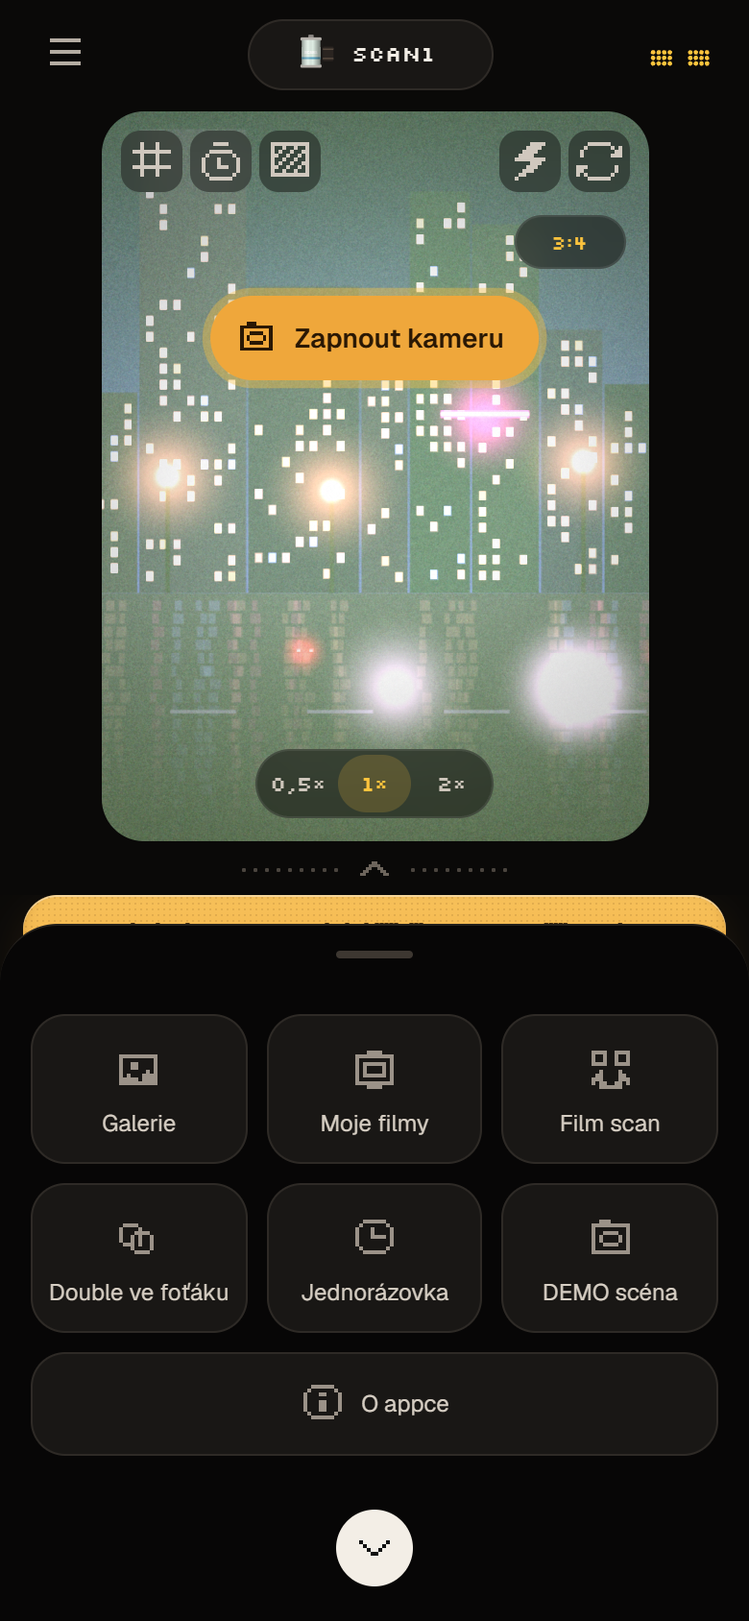
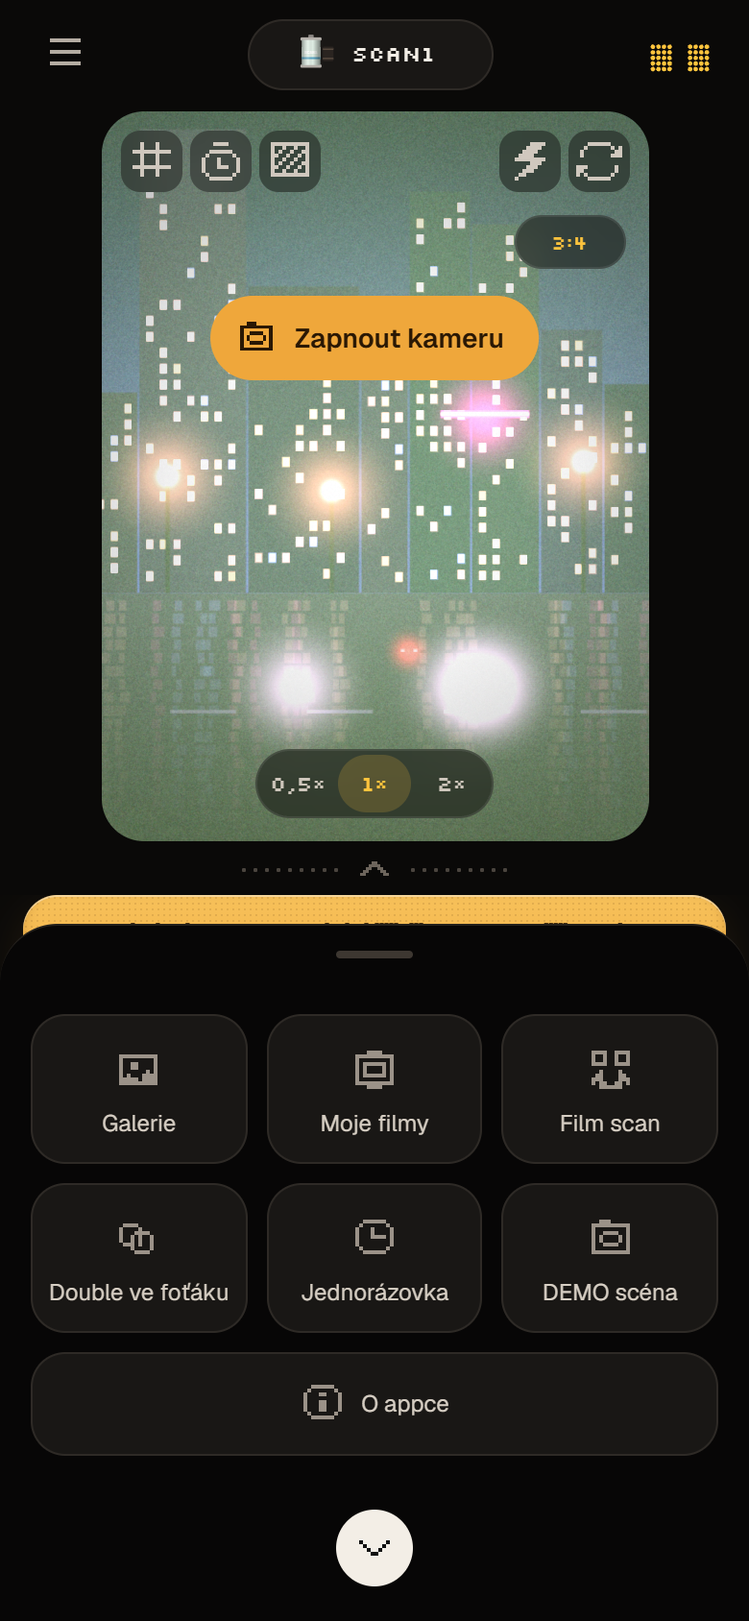
Náhled 0.11: nové infra filmy, tvar blobu z fotky, víc barev, tvary V3, průhledný export karty
- IR: barevné infra (růžovobílá zeleň, tyrkysové nebe), IR400: ČB infra ve stylu Rollei Infrared 400
- blob: tvar z fotky přes masku, vlastní tvary se pamatují, MIX barev z palety, 10 tvarů podle V3
- export blob karty jako PNG s průhledným pozadím
- mřížka efektů vycentrovaná

diff --git a/docs/preview/index.html b/docs/preview/index.html
@@ -434,7 +434,7 @@ a{color:var(--amber)}
 .cropbox::before,.cropbox::after{content:"";position:absolute;width:18px;height:18px;border:3px solid #fff}
 .cropbox::before{top:-3px;left:-3px;border-right:0;border-bottom:0}
 .cropbox::after{bottom:-3px;right:-3px;border-left:0;border-top:0}
-.fx{display:grid;grid-auto-flow:column;grid-template-rows:repeat(2,76px);grid-auto-columns:80px;gap:8px;padding:8px 14px;overflow-x:auto}
+.fx{display:grid;grid-template-columns:repeat(4,minmax(0,1fr));grid-auto-rows:76px;gap:8px;padding:8px 14px;overflow:visible}
 .fx button{display:flex;flex-direction:column;align-items:center;gap:6px;padding:12px 2px 10px;border-radius:16px;background:var(--panel);font-size:10.5px;color:#cbc3b8;border:1px solid var(--line);height:76px}
 .fx button .px{color:#8d847a}
 .fx button.on{border-color:rgba(255,196,61,.4)}
@@ -547,6 +547,14 @@ input[type=range]:hover::-webkit-slider-thumb{background:#fff}
 .palette button{width:38px;height:38px;border-radius:12px;box-shadow:inset 0 0 0 1px rgba(255,255,255,.1);transition:transform .3s cubic-bezier(.3,1.6,.5,1)}
 .palette button.on{transform:translateY(-4px);box-shadow:0 0 0 2px #0B0C0E,0 0 0 4px var(--fg)}
 .palette .add{width:38px;height:38px;border-radius:12px;cursor:pointer;background:transparent;box-shadow:inset 0 0 0 1.5px #3d3731;color:var(--fg);font-size:20px;display:grid;place-items:center;position:relative;overflow:hidden}
+.actlbl{display:flex;align-items:center;gap:12px;height:50px;padding:0 14px;border-radius:14px;background:var(--panel);border:1px solid var(--line);font-size:14px;cursor:pointer}
+.actlbl .px{width:20px;height:20px;color:#9b9288}
+.mkmod canvas{width:100%;aspect-ratio:4/5;border-radius:12px;display:block;background:#fff}
+.mkmod .srow{padding:0}
+#mkInv.on{color:var(--amber);border-color:rgba(255,196,61,.5)}
+.palette .mixb{width:38px;height:38px;border-radius:12px;box-shadow:inset 0 0 0 1.5px #3d3731;font:600 9.5px var(--f-mono);letter-spacing:.06em;color:#cfc7bc}
+.palette .mixb.on{box-shadow:inset 0 0 0 1.5px var(--amber);color:var(--amber)}
+.palette button.mx{transform:translateY(-4px);box-shadow:0 0 0 2px #0B0C0E,0 0 0 4px var(--amber)}
 .palette .add input{position:absolute;inset:0;opacity:0;cursor:pointer;width:100%;height:100%}
 .shapes{display:flex;gap:6px;overflow-x:auto;padding:0 16px}
 .shapes button{flex:none;width:52px;height:52px;border-radius:14px;display:grid;place-items:center}
@@ -727,7 +735,7 @@ body.pcapp .pcwrap{position:fixed;inset:0;width:auto;height:auto;transform:none!
 <body>
 <div class="shell" id="shell">
   <aside class="nav">
-    <div class="brand">QAMERA<small>Náhled 0.10</small></div>
+    <div class="brand">QAMERA<small>Náhled 0.11</small></div>
     <div>
       <div class="navlabel">Zobrazení</div>
       <div class="seg" id="viewSeg"><button class="on" data-v="m">MOBIL 390×844</button><button data-v="pc">PC 1440×900</button></div>
@@ -926,7 +934,7 @@ body.pcapp .pcwrap{position:fixed;inset:0;width:auto;height:auto;transform:none!
         <section class="scr pt" id="s-about" hidden>
           <div class="top"><button class="ib" data-back aria-label="Zpět" data-ic="back"></button><span class="title">O appce</span><span style="width:40px"></span></div>
           <div class="about">
-            <div class="hero"><div class="lens"><svg class="eyes" id="aboutEyes" viewBox="14 24 92 72"></svg></div><h2>QAMERA</h2><div class="ver">NÁHLED 0.10</div></div>
+            <div class="hero"><div class="lens"><svg class="eyes" id="aboutEyes" viewBox="14 24 92 72"></svg></div><h2>QAMERA</h2><div class="ver">NÁHLED 0.11</div></div>
             <div class="card"><h3>Poděkování</h3>
               <p><a href="https://github.com/thetechgeekko/Spektrafilm-android" target="_blank" rel="noopener">Spektrafilm for Android</a> by <b>Akshay Sharma</b></p>
               <p>Film modeling powered by <a href="https://github.com/andreavolpato/spektrafilm" target="_blank" rel="noopener">spektrafilm</a> (Andrea Volpato)</p>
@@ -1127,7 +1135,8 @@ const FILMS = [
   { code: 'PV100', sub: 'provia 100F', chem: 'E-6 · ISO 100', desc: 'Neutrální diapozitiv ve stylu Provia 100F. Přesné barvy, jemný grain.', iso: 100, g: 'fine', sh: [0, 0, .015], hi: [1.0, 1.0, 1.0], con: 1.16, sat: 1.14, fade: .0, hal: .15, c: ['#2a5fc4', '#f4f4f4', '#1c1c1c'] },
   { code: 'VEL', sub: 'velvia 100', chem: 'E-6 · ISO 100', desc: 'Extrémně sytý diapozitiv ve stylu Velvia. Krajiny, západy, purpurové stíny.', iso: 100, g: 'fine', sh: [.02, -.01, .03], hi: [1.04, .98, .96], con: 1.28, sat: 1.5, fade: .0, hal: .2, c: ['#7d2a8f', '#f4f4f4', '#2bb04a'] },
 ];
-FILMS.push({ code: 'IR', sub: 'aerochrome', chem: 'infračervený', desc: 'Falešný infračervený film ve stylu Aerochrome. Zeleň zčervená až do růžova, nebe ztmavne.', iso: 400, g: 'classic', sh: [0, .0, .02], hi: [1.02, 1, .98], con: 1.08, sat: 1.12, fade: .02, hal: .3, ir: 1, c: ['#1a1a1a', '#d62f5c', '#f2c230'] });
+FILMS.push({ code: 'IR', sub: 'infrared color', chem: 'barevný infračervený', desc: 'Infračervený vzhled jako z přestavěného foťáku: zeleň a tráva do růžovobílé, nebe tyrkysové, beton do pudrové.', iso: 400, g: 'classic', sh: [0, 0, 0], hi: [1, 1, 1], con: 1.02, sat: 1, fade: .02, hal: .3, gl: .28, ir: 1, c: ['#5fb7b4', '#f2a7bc', '#fbe9ee'] });
+FILMS.push({ code: 'IR400', sub: 'infrared 400', chem: 'ČB infračervený', desc: 'Černobílý infračervený film ve stylu Rollei Infrared 400 s červeným filtrem: zeleň září bíle (Woodův efekt), nebe a voda ztmavnou skoro do černa, ostrý kontrast.', iso: 400, g: 'mono', sh: [0, 0, 0], hi: [1, 1, 1], con: 1.1, sat: 0, fade: .0, hal: .12, gl: .2, ir: 2, c: ['#1a1a1a', '#e8e8e8', '#b3122e'] });
 /* soft glow (difúze, „Pro-Mist“) podle filmu */
 const GLOW = { P160: .2, P400: .18, P800: .22, E100: .08, G200: .18, UM400: .12, KC64: .05, EC100: .06, 'V3-50D': .15, 'V3-250D': .2, 'V3-500T': .3, C200: .12, '400H': .28, SX400: .1, PV100: .05, VEL: .05, IR: .25 };
 FILMS.forEach(f => f.gl = GLOW[f.code] ?? .12);
@@ -1373,7 +1382,18 @@ void main(){
   c = (c-.5)*(1.+uCon*.55)+.5;
   float l = luma(c); c = mix(vec3(l), c, 1.+uSat);
   vec3 f = c; float fl = clamp(luma(f),0.,1.);
-  if (uIR > .5) { vec3 x = f; float veg = clamp((x.g - max(x.r, x.b))*4., 0., 1.); float ir = clamp(luma(x)*.72 + veg*.95, 0., 1.); f = vec3(ir, x.r*.95, x.g*.88); fl = clamp(luma(f),0.,1.); }
+  if (uIR > .5) { vec3 x = clamp(f,0.,1.); float lx = luma(x), sat0 = max(x.r, max(x.g, x.b)) - min(x.r, min(x.g, x.b));
+    float veg = smoothstep(0., .12, x.g - max(x.r, x.b) * .92) * smoothstep(.03, .14, sat0); // zeleň (v IR silně odráží)
+    float sky = smoothstep(.02, .16, x.b - max(x.r, x.g) * .95) * smoothstep(.2, .55, lx);  // modré nebe (v IR tmavé)
+    float irl = clamp(lx * .8 + veg * (.55 + lx * .5), 0., 1.);
+    if (uIR < 1.5) { // barevná IR (filtr 590–720 nm + prohození kanálů): zeleň do růžovobílé, nebe do tyrkysu, zbytek pudrově růžový
+      vec3 base = mix(vec3(irl), irl * vec3(1.1, .84, .89), .8);
+      vec3 fol = mix(vec3(.93, .48, .6), vec3(1., .82, .87), smoothstep(.35, .95, irl));
+      vec3 sk = mix(vec3(.08, .45, .47), vec3(.35, .72, .72), lx);
+      f = mix(base, fol, veg); f = mix(f, sk, sky);
+    } else { // ČB IR (Rollei Infrared 400 + R72): Woodův efekt, černé nebe, tvrdý kontrast
+      float g = clamp(lx * .55 + veg * .85 + lx * veg * .3 - sky * .55 - smoothstep(.02, .2, x.b - x.r) * (1. - sky) * .12, 0., 1.); f = vec3(smoothstep(.04, .96, g)); }
+    fl = clamp(luma(f),0.,1.); }
   if (uLut > .5) f = texture(uLut3, clamp(f,0.,1.)*(32./33.) + .5/33.).rgb; // film ze spektrafilmu (3D LUT 33³)
   else {
   f = mix(vec3(fl), f, uFSat);
@@ -1493,7 +1513,7 @@ class Engine {
     const g = P.grade; gl.uniform3fv(u.uGSh, hue2rgb(g.sh[0], g.sh[1])); gl.uniform3fv(u.uGMid, hue2rgb(g.mid[0], g.mid[1])); gl.uniform3fv(u.uGHi, hue2rgb(g.hi[0], g.hi[1]));
     let T = o.transfer;
     if (!T && f.scan && this.srcEl) { if (!this.st) this.st = stats(this.srcEl); T = { k: Math.min(1, P.str) * (f.scan.k ?? 1), ms: this.st.m, ss: this.st.s, mr: f.scan.m, sr: f.scan.s }; }
-    gl.uniform1f(u.uGlow, P.glow ?? f.gl ?? .12); gl.uniform1f(u.uIR, f.ir ? 1 : 0);
+    gl.uniform1f(u.uGlow, P.glow ?? f.gl ?? .12); gl.uniform1f(u.uIR, f.ir || 0);
     const st = (!o.bypass && P.style) || {}, sty = st.type === 'dither' ? 1 : st.type === 'pixel' ? 2 : 0, pal = (st.pal || []).slice(0, 6), pf = new Float32Array(18);
     pal.forEach((c, i) => { const v = rgbOf(c); pf.set([v[0] / 255, v[1] / 255, v[2] / 255], i * 3); });
     gl.uniform1f(u.uStyle, sty); gl.uniform1f(u.uCells, st.cells || 200); gl.uniform1f(u.uLevels, st.levels || 2); gl.uniform3fv(u.uPal, pf); gl.uniform1f(u.uPalN, pal.length || 2); gl.uniform1f(u.uZebra, o.zebra ? 1 : 0);
@@ -2473,8 +2493,8 @@ function dateOverlay() { const cv = $('#eDate'); if (!cv || !S.cur) return; cons
   Object.assign(cv.style, { left: r.x + 'px', top: r.y + 'px', width: r.w + 'px', height: r.h + 'px' }); if (cv.width !== W || cv.height !== H) { cv.width = W; cv.height = H; }
   const g = cv.getContext('2d'); g.clearRect(0, 0, W, H); if (S.P.date && !before && W) drawDate(g, W, H, S.cur.date, S.P.date); }
 /* export v plném rozlišení: render celé fotky přes stejný shader, glow rám, pak sdílení (iPhone: Uložit obrázek) nebo stažení */
-async function exportCanvas(c, name) {
-  const blob = await new Promise(r => c.toBlob(r, 'image/jpeg', .95)), file = new File([blob], name, { type: 'image/jpeg' });
+async function exportCanvas(c, name, type = 'image/jpeg') {
+  const blob = await new Promise(r => c.toBlob(r, type, .95)), file = new File([blob], name, { type });
   try { if (isMobile() && navigator.canShare && navigator.canShare({ files: [file] })) { await navigator.share({ files: [file], title: 'Qamera' }); return toast('Hotovo'); } } catch (e) { if (e && e.name === 'AbortError') return; }
   const a = document.createElement('a'); a.href = URL.createObjectURL(blob); a.download = name; document.body.appendChild(a); a.click(); setTimeout(() => { URL.revokeObjectURL(a.href); a.remove(); }, 1500); toast('Fotka stažená');
 }
@@ -3088,6 +3108,7 @@ async function shareRecipe(r) {
 const SHAPES = [{ k: 'splat', s: 3 }, { k: 'blob', n: 5, a: .2, s: 9 }, { k: 'star', s: 2 }, { k: 'sparkle', s: 4 }, { k: 'flower', s: 5 }, { k: 'stamp' }, { k: 'soft' },
   { k: 'stars', s: 11 }, { k: 'dots', s: 12 }, { k: 'flowers', s: 13 }, { k: 'sparkles', s: 14 }, { k: 'waves', s: 15 },
   { k: 'shoot', s: 21 }, { k: 'chain', s: 22 }, { k: 'beacons', s: 23 }, { k: 'stars3', s: 24 }, { k: 'snake', s: 25 }, { k: 'daisygrid', s: 26 }, { k: 'halfdaisy', s: 27 }, { k: 'outlineflowers', s: 28 }, { k: 'daisyfield', s: 29 }, { k: 'loops', s: 30 },
+  { k: 'bigstars', s: 31 }, { k: 'lattice', s: 32 }, { k: 'clouds', s: 33 }, { k: 'leaf', s: 34 }, { k: 'rays', s: 35 }, { k: 'blossoms', s: 36 }, { k: 'spiral', s: 37 }, { k: 'coral', s: 38 }, { k: 'hearts', s: 39 }, { k: 'blobstars', s: 40 },
   { k: 'blob', n: 7, a: .28, s: 1 }, { k: 'blob', n: 3, a: .3, s: 12 }];
 const f2 = v => v.toFixed(2);
 function smoothClosed(pts, t = .18) { const N = pts.length; let d = `M${f2(pts[0][0])} ${f2(pts[0][1])}`;
@@ -3119,6 +3140,12 @@ const sparkle4 = (cx, cy, L, rot, fat = .13) => { let d = ''; for (let i = 0; i 
 /* nepravidelná hvězda s kulatými cípy (padající hvězda) */
 const curvyStar = (cx, cy, tips, valley, sc = 1, rot = 0) => { const pts = []; tips.forEach(([deg, L], i) => { const nd = tips[(i + 1) % tips.length][0] + (i === tips.length - 1 ? 360 : 0), a = deg * Math.PI / 180 + rot, am = (deg + nd) / 2 * Math.PI / 180 + rot;
   pts.push([cx + Math.cos(a) * L * sc, cy + Math.sin(a) * L * sc]); pts.push([cx + Math.cos(am) * valley * sc, cy + Math.sin(am) * valley * sc]); }); return smoothClosed(pts, .1); };
+const cloudPath = (cx, cy, w) => smoothClosed([[-.46, .12], [0, .15], [.46, .12], [.5, -.02], [.4, -.16], [.24, -.2], [.12, -.36], [-.06, -.4], [-.2, -.3], [-.32, -.22], [-.46, -.12]].map(([x, y]) => [cx + x * w, cy + y * w]), .2);
+const heartPath = (cx, cy, R, rot) => { const pts = []; for (let i = 0; i < 40; i++) { const t = i / 40 * Math.PI * 2, x = 16 * Math.pow(Math.sin(t), 3), y = -(13 * Math.cos(t) - 5 * Math.cos(2 * t) - 2 * Math.cos(3 * t) - Math.cos(4 * t)), cs = Math.cos(rot), sn = Math.sin(rot);
+  pts.push([cx + (x * cs - y * sn) * R / 17, cy + (x * sn + y * cs) * R / 17]); } return smoothClosed(pts, .16); };
+const leafPath = (x, y, ang, L, W, ph) => { const ux = Math.cos(ang), uy = Math.sin(ang), px = -uy, py = ux, side = [], back = [];
+  for (let i = 0; i <= 8; i++) { const t = i / 8, w = W * Math.sin(Math.PI * Math.pow(t, .8)) * (.55 + .45 * t), wv = Math.sin(t * 7 + ph) * W * .35, cx = x + ux * L * t + px * wv, cy = y + uy * L * t + py * wv;
+    side.push([cx + px * w, cy + py * w]); back.unshift([cx - px * w, cy - py * w]); } return smoothClosed([...side, ...back.slice(1, -1)], .18); };
 function scatter(r, n, gap, rMin, rMax) { const out = []; let t = 0;
   while (out.length < n && t++ < n * 80) { const R = rMin + r() * (rMax - rMin), x = 4 + r() * 92, y = 4 + r() * 117; if (out.every(o => Math.hypot(o[0] - x, o[1] - y) > (o[2] + R) * gap)) out.push([x, y, R]); }
   return out; }
@@ -3151,6 +3178,25 @@ function shapeSvg(sh, fg, bg, fid = 'bsoft') {
     case 'outlineflowers': return [[40, 44, 17, .2], [72, 68, 12, .9], [46, 92, 18, -.3]].map(([x, y, R, rt]) => `<path d="${petalPath(x, y, R, 5, rt, 1.3, .45)}" fill="none" stroke="${fg}" stroke-width="2.4"/><path d="${circ(x, y, R * .12)}" fill="none" stroke="${fg}" stroke-width="1.8"/>`).join('');
     case 'daisyfield': return scatter(r, 9, 1.12, 9, 12.5).map(([x, y, R]) => `<path d="${petalPath(x, y, R, 7, r() * 6, 1.1, .5)}${circ(x, y, R * .24)}" fill="${fg}" fill-rule="evenodd"/>`).join('');
     case 'loops': return scatter(r, 8, .85, 11, 19).map(([x, y, R], i) => { const ex = x + R * .2, ey = y - R * .15; return `<path d="${blobPath({ n: 2 + (i % 2), a: .2, s: (sh.s || 1) * 7 + i }, x, y, R)}" fill="none" stroke="${fg}" stroke-width="1.8"/><ellipse cx="${f2(ex)}" cy="${f2(ey)}" rx="${f2(R * .28)}" ry="${f2(R * .16)}" transform="rotate(${Math.round(r() * 80 - 40)} ${f2(ex)} ${f2(ey)})" fill="none" stroke="${fg}" stroke-width="1.6"/>`; }).join('');
+    case 'bigstars': return scatter(r, 20, 1.05, 4.5, 10).map(([x, y, R]) => P(starPath(x, y, R, 5, .42, r() * 6))).join('');
+    case 'lattice': { let c = ''; const R = 12.7, k = .8; for (let y = 0; y <= 125.1; y += 25) for (let x = 0; x <= 100.1; x += 25) { let d = ''; // čtyřcípé hvězdy, mezi nimi zaoblené čtverce
+        for (let i = 0; i <= 4; i++) { const a = i * Math.PI / 2 - Math.PI / 2, tx = x + Math.cos(a) * R, ty = y + Math.sin(a) * R; if (!i) { d += `M${f2(tx)} ${f2(ty)}`; continue; }
+          const a0 = a - Math.PI / 2; d += `C${f2(x + Math.cos(a0) * R * (1 - k))} ${f2(y + Math.sin(a0) * R * (1 - k))} ${f2(x + Math.cos(a) * R * (1 - k))} ${f2(y + Math.sin(a) * R * (1 - k))} ${f2(tx)} ${f2(ty)}`; }
+        c += P(d + 'Z'); } return c; }
+    case 'clouds': return scatter(r, 9, 1.05, 9, 15).map(([x, y, R]) => P(cloudPath(x, y, R * 2))).join('');
+    case 'leaf': { const st = [[18, 120], [30, 98], [36, 80], [40, 60], [50, 44], [64, 32], [80, 18]]; let c = `<path d="${smoothOpen(st)}" fill="none" stroke="${fg}" stroke-width="1.6" stroke-linecap="round"/>`;
+      [[30, 98, 200, 26], [34, 88, -20, 30], [37, 76, 195, 30], [39, 66, -15, 32], [44, 54, 205, 30], [50, 44, -25, 30], [58, 37, 230, 24], [66, 31, -40, 22], [74, 24, 250, 16], [80, 18, -60, 12]].forEach(([x, y, deg, L], i) => c += P(leafPath(x, y, deg * Math.PI / 180, L * 1.08, 6.8, i * 1.7))); return c; }
+    case 'rays': { let c = ''; for (let i = 0; i < 13; i++) { const a = (112 + i * 11.3) * Math.PI / 180; c += `<path d="M106 63L${f2(106 + Math.cos(a) * 170)} ${f2(63 + Math.sin(a) * 170)}" stroke="${fg}" stroke-width="2" stroke-linecap="round"/>`; }
+      return c + P(sparkle4(30, 66, [20, 14, 18, 13], .08, .14)) + P(sparkle4(66, 22, [9, 11, 8, 11], .3, .14)) + P(sparkle4(70, 104, [7, 8, 7, 8], -.2, .14)); }
+    case 'blossoms': return scatter(r, 12, 1.15, 5, 9.5).map(([x, y, R]) => `<path d="${petalPath(x, y, R, 8, r() * 6, 2, .35)}${circ(x, y, R * .26)}" fill="${fg}" fill-rule="evenodd"/>`).join('');
+    case 'spiral': { const pts = []; for (let t = 0; t < 7.2 * Math.PI; t += .25) { const rr = 1.5 + t * 3.4 + Math.sin(t * 3.1) * 1.4; pts.push([50 + Math.cos(t) * rr, 62 + Math.sin(t) * rr * 1.1]); } return `<path d="${smoothOpen(pts)}" fill="none" stroke="${fg}" stroke-width="2.6" stroke-linecap="round"/>`; }
+    case 'coral': { let c = ''; const br = (x, y, a, L, w, d) => { const x2 = x + Math.cos(a) * L, y2 = y + Math.sin(a) * L, mx = (x + x2) / 2 + (r() - .5) * L * .3, my = (y + y2) / 2 + (r() - .5) * L * .2;
+        c += `<path data-g="1" d="M${f2(x)} ${f2(y)}Q${f2(mx)} ${f2(my)} ${f2(x2)} ${f2(y2)}" fill="none" stroke="${fg}" stroke-width="${f2(w)}" stroke-linecap="round"/>`;
+        if (d > 0) { const sp = .35 + r() * .35; br(x2, y2, a - sp, L * (.68 + r() * .12), w * .78, d - 1); br(x2, y2, a + sp, L * (.68 + r() * .12), w * .78, d - 1); if (r() < .4) br(x2, y2, a + (r() - .5) * .3, L * .6, w * .7, d - 2); } };
+      [[30, 128, -1.75], [52, 128, -1.55], [72, 128, -1.38]].forEach(([x, y, a]) => br(x, y, a, 26, 5.4, 4)); return c; }
+    case 'hearts': return scatter(r, 16, .95, 7, 11).map(([x, y, R]) => P(heartPath(x, y, R, (r() - .5) * 1.4))).join('');
+    case 'blobstars': return scatter(r, 9, .9, 11, 16).map(([x, y, R]) => `<path d="${petalPath(x, y, R, 5, r() * 6, .8, .55, .1)}" fill="none" stroke="${fg}" stroke-width="1.5"/><path d="${circ(x + R * .05, y, R * .14)}" fill="none" stroke="${fg}" stroke-width="1.4"/>`).join('');
+    case 'img': return `<g><defs><filter id="${fid}t" x="0" y="0" width="1" height="1"><feFlood flood-color="${fg}"/><feComposite in2="SourceAlpha" operator="in"/></filter></defs><image href="${sh.u}" x="0" y="0" width="100" height="125" preserveAspectRatio="xMidYMid meet" filter="url(#${fid}t)"/></g>`;
     case 'waves': { let c = ''; const n = 3; for (let j = 0; j < n; j++) { const y0 = 18 + j * 42 + (r() - .5) * 10, ph = r() * 6, amp = 8 + r() * 10, pts = []; for (let x = -10; x <= 110; x += 10) pts.push([x, y0 + Math.sin(x * .065 + ph) * amp + (r() - .5) * 5]);
       c += `<path d="${smoothOpen(pts)}" fill="none" stroke="${fg}" stroke-width="7" stroke-linecap="round"/>`; } return c; }
   }
@@ -3167,7 +3213,45 @@ function kmeans(d, k = 5) {
 const B = { shape: 0, palMode: 'post', bg: 1, ox: 0, oy: 0, sc: 1, paper: true, custom: [], photo: null, drawing: false, inv: false, op: 1, color: '#e33a22', blend: 'normal', size: 1, dis: 0 };
 let BPRE = store.get('blobPresets', []);
 function rgbOf(c) { if (c[0] === '#') return [1, 3, 5].map(i => parseInt(c.slice(i, i + 2), 16)); return c.match(/\d+/g).slice(0, 3).map(Number); }
+const saveShapes = () => { try { store.set('blobShapes', SHAPES.filter(x => x.k === 'draw' || x.k === 'img')); } catch { toast('Místo na vlastní tvary je plné'); } };
+/* tvar z fotky: fotka → maska podle jasu (náhled černě na bílém), práh, vyhlazení, obrátit */
+function maskPick() {
+  openActs(`<h4>Tvar z fotky</h4><label class="actlbl">${iconSVG('camera')}Vyfotit<input type="file" accept="image/*" capture="environment" id="mkShoot" hidden></label><label class="actlbl">${iconSVG('gallery')}Fotky v telefonu<input type="file" accept="image/*" id="mkFile" hidden></label>
+    <div class="grid2">${S.photos.filter(p => p.kind !== 'arch').slice(0, 16).map(p => `<button data-id="${p.id}" style="padding:4px"><img src="${p.thumb}" alt="" style="width:100%;aspect-ratio:3/4;object-fit:cover;border-radius:10px"></button>`).join('')}</div>`, root => {
+    const fromFile = async f => { if (!f) return; closeActs(); try { const url = URL.createObjectURL(f), img = new Image(); img.src = url; await img.decode(); const k = Math.min(1, 900 / Math.max(img.naturalWidth, img.naturalHeight)), c = mk(Math.round(img.naturalWidth * k), Math.round(img.naturalHeight * k)); c.getContext('2d').drawImage(img, 0, 0, c.width, c.height); URL.revokeObjectURL(url); maskEdit(c); } catch { toast('Fotku se nepodařilo načíst'); } };
+    $('#mkShoot', root).onchange = e => fromFile(e.target.files[0]); $('#mkFile', root).onchange = e => fromFile(e.target.files[0]);
+    $$('[data-id]', root).forEach(b => b.onclick = () => { closeActs(); const ph = S.photos.find(p => p.id === +b.dataset.id); maskEdit(copyCanvas(utilRender(ph.src, DEF(), 640, Math.round(640 / (ph.src.width / ph.src.height)), { bypass: true }))); }); });
+}
+function maskEdit(src) {
+  const W = 400, H = 500, k = Math.min(W / src.width, H / src.height), dw = Math.round(src.width * k), dh = Math.round(src.height * k), ox = (W - dw) >> 1, oy = (H - dh) >> 1;
+  const base = mk(W, H), bg = base.getContext('2d', { willReadFrequently: true }); bg.fillStyle = '#fff'; bg.fillRect(0, 0, W, H); bg.drawImage(src, ox, oy, dw, dh);
+  const d = bg.getImageData(0, 0, W, H).data, L0 = new Float32Array(W * H); for (let i = 0; i < W * H; i++) L0[i] = d[i * 4] * .3 + d[i * 4 + 1] * .59 + d[i * 4 + 2] * .11;
+  const blur = (a, rad) => { if (!rad) return a; const t = new Float32Array(W * H), o = new Float32Array(W * H), n = 2 * rad + 1;
+    for (let y = 0; y < H; y++) { let s = 0; for (let x = -rad; x <= rad; x++) s += a[y * W + clamp(x, 0, W - 1)]; for (let x = 0; x < W; x++) { t[y * W + x] = s / n; s += a[y * W + Math.min(W - 1, x + rad + 1)] - a[y * W + Math.max(0, x - rad)]; } }
+    for (let x = 0; x < W; x++) { let s = 0; for (let y = -rad; y <= rad; y++) s += t[clamp(y, 0, H - 1) * W + x]; for (let y = 0; y < H; y++) { o[y * W + x] = s / n; s += t[Math.min(H - 1, y + rad + 1) * W + x] - t[Math.max(0, y - rad) * W + x]; } } return o; };
+  const hist = new Float32Array(256); L0.forEach(v => hist[v | 0]++); let sum = 0, sB = 0, wB = 0, best = 0, th0 = 128; for (let i = 0; i < 256; i++) sum += i * hist[i];
+  for (let i = 0; i < 256; i++) { wB += hist[i]; if (!wB) continue; const wF = W * H - wB; if (!wF) break; sB += i * hist[i]; const mB = sB / wB, mF = (sum - sB) / wF, v = wB * wF * (mB - mF) ** 2; if (v > best) { best = v; th0 = i; } } // Otsu
+  const st = { th: th0, bl: 2, inv: false }, host = BLOBPC ? document.body : $('#phone');
+  const el = document.createElement('div'); el.className = 'xmod mkmod';
+  el.innerHTML = `<div class="xcard"><div class="xh"><b>Tvar z fotky</b><span>černá = tvar</span></div><canvas id="mkCv" width="${W}" height="${H}"></canvas>
+    <label class="srow"><span>Práh</span><input type="range" id="mkTh" min="0" max="255" value="${th0}" data-def="${th0}"><output>${th0}</output></label>
+    <label class="srow"><span>Vyhlazení</span><input type="range" id="mkBl" min="0" max="10" value="2" data-def="2"><output>2</output></label>
+    <div class="xbtns"><button class="pbtn ghost" id="mkInv">Obrátit</button><span style="flex:1"></span><button class="pbtn ghost" id="mkNo">Zrušit</button><button class="pbtn" id="mkOk">Použít</button></div></div>`;
+  host.appendChild(el); requestAnimationFrame(() => el.classList.add('on'));
+  const cv = $('#mkCv', el), g = cv.getContext('2d'), out = mk(W, H), og = out.getContext('2d'), od = og.createImageData(W, H); let Lb = blur(L0, st.bl);
+  const paint = () => { for (let i = 0; i < W * H; i++) { let a = clamp((st.th - Lb[i]) / 10 + .5, 0, 1); if (st.inv) a = 1 - a; od.data[i * 4] = od.data[i * 4 + 1] = od.data[i * 4 + 2] = 255; od.data[i * 4 + 3] = a * 255; }
+    og.putImageData(od, 0, 0); const tb = mk(W, H), tg = tb.getContext('2d'); tg.drawImage(out, 0, 0); tg.globalCompositeOperation = 'source-in'; tg.fillStyle = '#111'; tg.fillRect(0, 0, W, H);
+    g.fillStyle = '#fff'; g.fillRect(0, 0, W, H); g.drawImage(tb, 0, 0); };
+  paint();
+  const rg = (id, f) => { const i = $(id, el); paintRange(i); i.oninput = () => { i.nextElementSibling.textContent = i.value; paintRange(i); f(+i.value); paint(); }; };
+  rg('#mkTh', v => st.th = v); rg('#mkBl', v => { st.bl = v; Lb = blur(L0, v); });
+  $('#mkInv', el).onclick = () => { st.inv = !st.inv; $('#mkInv', el).classList.toggle('on', st.inv); paint(); };
+  const close = () => { el.classList.remove('on'); setTimeout(() => el.remove(), 300); };
+  $('#mkNo', el).onclick = close;
+  $('#mkOk', el).onclick = () => { const sm = mk(240, 300); sm.getContext('2d').drawImage(out, 0, 0, 240, 300); SHAPES.push({ k: 'img', u: sm.toDataURL('image/png') }); saveShapes(); B.size = 1; syncBlobCtl(); renderShapes(); selectShape(SHAPES.length - 1); close(); buzz(10); toast('Tvar z fotky přidaný'); };
+}
 function openBlob() {
+  if (!B._loaded) { B._loaded = true; SHAPES.push(...store.get('blobShapes', [])); }
   const ph = S.blobFrom || S.photos[0]; S.blobFrom = ph; const P = ph === S.cur ? S.P : ph.P, src = srcOf(ph, P);
   B.post = kmeans(utilRender(src, P, 60, 75, {}) && util.e.pixels()); B.pre = kmeans(utilRender(src, P, 60, 75, { bypass: true }) && util.e.pixels());
   B.img = utilRender(src, Object.assign(JSON.parse(JSON.stringify(P)), { crop: DEF().crop }), 600, Math.round(600 / (src.width / src.height)), {}).toDataURL('image/jpeg', .9); B.ar = src.width / src.height;
@@ -3180,7 +3264,10 @@ function syncBlobCtl() {
 }
 function renderShapes() {
   $('#bShapes').innerHTML = SHAPES.map((sh, i) => `<button data-i="${i}" class="${i === B.shape ? 'on' : ''}"><svg viewBox="0 0 100 125"><defs><filter id="ts${i}" x="-20%" y="-20%" width="140%" height="140%"><feGaussianBlur stdDeviation="2.4"/></filter></defs>${shapeSvg(sh, '#e9e2d6', '#1a1b1f', 'ts' + i)}</svg></button>`).join('')
-    + `<button class="drawbtn" id="bDraw" aria-label="Nakreslit vlastní tvar">+</button>`;
+    + `<button class="drawbtn" id="bDraw" aria-label="Nakreslit vlastní tvar">+</button><button class="drawbtn" id="bPhoto" aria-label="Tvar z fotky">${iconSVG('camera')}</button>`;
+  $$('#bShapes [data-i]').forEach(b => { const sh = SHAPES[+b.dataset.i]; if (sh && (sh.k === 'draw' || sh.k === 'img')) longPress(b, () => openActs(`<h4>Vlastní tvar</h4>${actBtn('del', 'trash', 'Smazat tvar', 'danger')}`, root => {
+    $('[data-a=del]', root).onclick = () => { closeActs(); const i = SHAPES.indexOf(sh); SHAPES.splice(i, 1); if (B.shape >= SHAPES.length) B.shape = 0; saveShapes(); renderShapes(); drawBlob(); toast('Tvar smazaný'); }; })); });
+  $('#bPhoto').onclick = maskPick;
   $$('#bShapes [data-i]').forEach(b => b.onclick = () => selectShape(+b.dataset.i));
   $('#bDraw').onclick = () => { B.drawing = true; $('#bCard').classList.add('drawing'); buzz(6); toast('Nakresli prstem tvar přímo na kartu'); };
 }
@@ -3202,7 +3289,7 @@ function selectShape(i) {
   drawBlob(); spring(.94, 1, v => $('#bCard').style.transform = `scale(${v})`, { k: 300, c: 16 });
 }
 function diceShape() { // kostka: jeden „náhodný“ slot, náhodný tvar i nastavení; líbí-li se, ulož ho jako preset
-  const kinds = ['blob', 'blob', 'splat', 'star', 'sparkle', 'flower', 'stars', 'dots', 'flowers', 'sparkles', 'waves', 'shoot', 'chain', 'beacons', 'stars3', 'snake', 'daisygrid', 'halfdaisy', 'outlineflowers', 'daisyfield', 'loops'], rnd = a => a[Math.floor(Math.random() * a.length)];
+  const kinds = ['blob', 'blob', 'splat', 'star', 'sparkle', 'flower', 'stars', 'dots', 'flowers', 'sparkles', 'waves', 'shoot', 'chain', 'beacons', 'stars3', 'snake', 'daisygrid', 'halfdaisy', 'outlineflowers', 'daisyfield', 'loops', 'bigstars', 'lattice', 'clouds', 'leaf', 'rays', 'blossoms', 'spiral', 'coral', 'hearts', 'blobstars'], rnd = a => a[Math.floor(Math.random() * a.length)];
   const sh = { k: rnd(kinds), s: 1 + Math.floor(Math.random() * 9999), n: 3 + Math.floor(Math.random() * 6), a: .1 + Math.random() * .25, rnd: true };
   let i = SHAPES.findIndex(x => x.rnd); if (i < 0) { SHAPES.push(sh); i = SHAPES.length - 1; } else SHAPES[i] = sh;
   Object.assign(B, { inv: Math.random() < .3, dis: Math.random() < .35 ? +(.15 + Math.random() * .45).toFixed(2) : 0, blend: rnd(['normal', 'normal', 'screen', 'glow']), size: +(.75 + Math.random() * .3).toFixed(2), bg: Math.floor(Math.random() * 5) });
@@ -3212,8 +3299,12 @@ function diceShape() { // kostka: jeden „náhodný“ slot, náhodný tvar i n
 }
 function drawPal() {
   const pal = [...B[B.palMode], ...B.custom]; B.bg = clamp(B.bg, 0, pal.length - 1);
-  $('#bPal').innerHTML = pal.map((c, i) => `<button data-i="${i}" class="${i === B.bg ? 'on' : ''}" style="background:${c}" aria-label="Barva ${i + 1}"></button>`).join('') + `<label class="add" aria-label="Vlastní barva">+<input type="color" id="bColor" value="#e33a22"></label>`;
-  $$('#bPal button').forEach(b => b.onclick = () => { B.bg = +b.dataset.i; drawPal(); });
+  B.mix = (B.mix || []).filter(c => pal.includes(c));
+  $('#bPal').innerHTML = pal.map((c, i) => `<button data-i="${i}" class="${B.mixMode ? (B.mix.includes(c) ? 'mx' : '') : i === B.bg ? 'on' : ''}" style="background:${c}" aria-label="Barva ${i + 1}"></button>`).join('') + `<label class="add" aria-label="Vlastní barva">+<input type="color" id="bColor" value="#e33a22"></label><button class="mixb ${B.mixMode ? 'on' : ''}" id="bMix" aria-label="Víc barev">MIX</button>`;
+  $$('#bPal button[data-i]').forEach(b => b.onclick = () => { const i = +b.dataset.i, c = pal[i];
+    if (B.mixMode) { B.mix = B.mix.includes(c) ? B.mix.filter(x => x !== c) : [...B.mix, c]; if (B.mix.length > 1 && !B.inv) { B.inv = true; syncBlobCtl(); } if (B.mix.length) B.bg = pal.indexOf(B.mix[0]); buzz(4); }
+    else B.bg = i; drawPal(); });
+  $('#bMix').onclick = () => { B.mixMode = !B.mixMode; if (B.mixMode) { B.mix = [pal[B.bg]]; toast('Vyber víc barev, tvary se náhodně obarví'); } else B.mix = []; drawPal(); };
   const ci = $('#bColor'); ci.oninput = () => { B.color = ci.value; drawBlob(); }; ci.onchange = () => { B.custom.push(ci.value); B.bg = B[B.palMode].length + B.custom.length - 1; drawPal(); };
   B.color = pal[B.bg]; const [r, g, b] = rgbOf(B.color), L = (r * .299 + g * .587 + b * .114) / 255;
   $('#bCard').style.backgroundColor = B.color; $('#bLbl').style.setProperty('--lc', L > .55 && B.op > .6 && !B.inv ? 'rgba(20,18,16,.75)' : 'rgba(255,250,240,.88)'); drawBlob();
@@ -3230,7 +3321,8 @@ function drawBlob(path) {
     ${B.blend === 'glow' ? `<mask id="bmg" maskUnits="userSpaceOnUse" x="-30" y="-30" width="160" height="185"><rect x="-30" y="-30" width="160" height="185" fill="${inv ? '#000' : '#fff'}"/><g filter="url(#bblur)">${grp}</g></mask>` : ''}</defs>
     <image href="${B.img}" preserveAspectRatio="none"/>
     ${B.blend === 'glow' ? `<rect x="-30" y="-30" width="160" height="185" fill="${B.color}" opacity="${B.op}" mask="url(#bmg)" style="mix-blend-mode:screen"/>` : ''}
-    <rect width="100" height="125" fill="${B.color}" opacity="${B.op}" mask="url(#bm)" ${scr}/>`;
+    ${B.inv && B.mix && B.mix.length > 1 ? `<g mask="url(#bm)" opacity="${B.op}" ${scr}><g transform="translate(50 62.5) scale(${B.size}) translate(-50 -62.5)">${mixColor(path ? `<path d="${path}" fill="#000"/>` : shapeSvg(sh, '#000', '#fff', 'bsoftm'))}</g></g>`
+      : `<rect width="100" height="125" fill="${B.color}" opacity="${B.op}" mask="url(#bm)" ${scr}/>`}`;
   placeImg();
 }
 /* export blob karty: SVG s fotkou ve vyšším rozlišení → canvas, popisky, tmavé tečkované pozadí jako v appce */
@@ -3238,15 +3330,14 @@ async function exportBlob() {
   toast('Připravuju kartu…'); const ph = B.photo, P = ph === S.cur ? S.P : ph.P, src = srcOf(ph, P);
   const hi = copyCanvas(utilRender(src, Object.assign(JSON.parse(JSON.stringify(P)), { crop: DEF().crop }), 1600, Math.round(1600 / (src.width / src.height)), { depth: ph.depth })).toDataURL('image/jpeg', .92);
   const svg = $('#bSvg').cloneNode(true); svg.setAttribute('xmlns', 'http://www.w3.org/2000/svg'); svg.setAttribute('width', 1080); svg.setAttribute('height', 1350);
-  svg.querySelectorAll('.draft').forEach(x => x.remove()); const im = svg.querySelector('image'); if (im) im.setAttribute('href', hi);
-  const bg = document.createElementNS('http://www.w3.org/2000/svg', 'rect'); bg.setAttribute('width', 100); bg.setAttribute('height', 125); bg.setAttribute('fill', B.color); svg.insertBefore(bg, svg.querySelector('image'));
+  svg.querySelectorAll('.draft').forEach(x => x.remove()); const im = svg.querySelector(':scope > image'); if (im) im.setAttribute('href', hi);
+  const bg = document.createElementNS('http://www.w3.org/2000/svg', 'rect'); bg.setAttribute('width', 100); bg.setAttribute('height', 125); bg.setAttribute('fill', B.color); svg.insertBefore(bg, im);
   const url = URL.createObjectURL(new Blob([new XMLSerializer().serializeToString(svg)], { type: 'image/svg+xml' })), img = new Image(); img.src = url; await img.decode(); URL.revokeObjectURL(url);
-  const W = 1200, H = 1500, c = mk(W, H), g = c.getContext('2d'); g.fillStyle = '#0B0C0E'; g.fillRect(0, 0, W, H);
-  { g.fillStyle = '#26282D'; for (let y = 30; y < H; y += 30) for (let x = 30; x < W; x += 30) { g.beginPath(); g.arc(x, y, 2.4, 0, 7); g.fill(); } }
-  g.save(); g.beginPath(); g.roundRect(60, 75, 1080, 1350, 44); g.clip(); g.drawImage(img, 60, 75, 1080, 1350);
+  const W = 1080, H = 1350, c = mk(W, H), g = c.getContext('2d'); // průhledné pozadí, jen karta se zaoblenými rohy
+  g.save(); g.beginPath(); g.roundRect(0, 0, W, H, 48); g.clip(); g.drawImage(img, 0, 0, W, H);
   await document.fonts.ready; g.fillStyle = getComputedStyle($('#bLbl')).getPropertyValue('--lc') || 'rgba(255,250,240,.88)'; g.font = '500 30px "Geist Mono", monospace'; g.textBaseline = 'alphabetic';
-  if (B.text !== false) { g.fillText($('#bL').textContent, 60 + 44, 75 + 1350 - 40); g.textAlign = 'right'; g.fillText($('#bR').textContent, 60 + 1080 - 44, 75 + 1350 - 40); } g.restore();
-  exportCanvas(c, `qamera-karta-${Date.now()}.jpg`);
+  if (B.text !== false) { g.fillText($('#bL').textContent, 44, H - 40); g.textAlign = 'right'; g.fillText($('#bR').textContent, W - 44, H - 40); } g.restore();
+  exportCanvas(c, `qamera-karta-${Date.now()}.png`, 'image/png');
 }
 /* šum pro dissolve jako obrázek – feTurbulence v Safari občas vykreslil jen část (pruh vpravo) */
 let NOISE = null;
@@ -3254,7 +3345,11 @@ function noiseUrl() { if (NOISE) return NOISE; const W = 400, H = 500, c = mk(W,
   for (let i = 0; i < a.length; i++) a[i] = Math.random();
   for (let y = 0; y < H; y++) for (let x = 0; x < W; x++) { const i = y * W + x, v = (a[i] * 2 + a[y * W + (x + 1) % W] + a[((y + 1) % H) * W + x]) / 4; id.data[i * 4] = id.data[i * 4 + 1] = id.data[i * 4 + 2] = v * 255; id.data[i * 4 + 3] = 255; }
   g.putImageData(id, 0, 0); return NOISE = c.toDataURL('image/png'); }
-function placeImg() { const im = $('#bSvg image'); if (!im) return; const w = Math.max(100, 125 * B.ar) * B.sc, h = w / B.ar;
+/* víc barev: každý prvek vzoru dostane náhodně jednu z vybraných barev (stejné „data-g“ = stejná barva) */
+function mixColor(svgStr) { const r = rng(SHAPES[B.shape] ? (SHAPES[B.shape].s || 5) * 17 + B.mix.length : 5), groups = {};
+  return svgStr.replace(/<(path|rect|ellipse|circle)\b[^>]*>/g, tag => { const gk = (tag.match(/data-g="([^"]+)"/) || [])[1]; const c = gk ? (groups[gk] = groups[gk] || B.mix[Math.floor(r() * B.mix.length)]) : B.mix[Math.floor(r() * B.mix.length)];
+    return tag.replace(/(fill|stroke)="#000"/g, `$1="${c}"`); }).replace(/<(feFlood)\b[^>]*>/g, tag => tag.replace(/flood-color="#000"/, `flood-color="${B.mix[0]}"`)); }
+function placeImg() { const im = $('#bSvg > image'); if (!im) return; const w = Math.max(100, 125 * B.ar) * B.sc, h = w / B.ar;
   im.setAttribute('x', 50 - w / 2 + B.ox); im.setAttribute('y', 62.5 - h / 2 + B.oy); im.setAttribute('width', w); im.setAttribute('height', h); }
 let morphSp = null;
 function morphBlob(from) {
@@ -3288,7 +3383,7 @@ function blobGestures() {
     let L = 0; const acc = [0]; for (let i = 1; i < raw.length; i++) { L += Math.hypot(raw[i][0] - raw[i - 1][0], raw[i][1] - raw[i - 1][1]); acc.push(L); }
     const N = 40; let out = []; for (let j = 0; j < N; j++) { const t = j / N * L; let i = acc.findIndex(v => v >= t); i = Math.max(1, i); const f = (t - acc[i - 1]) / ((acc[i] - acc[i - 1]) || 1); out.push([lerp(raw[i - 1][0], raw[i][0], f), lerp(raw[i - 1][1], raw[i][1], f)]); }
     for (let it = 0; it < 3; it++) out = out.map((p, i) => { const q0 = out[(i - 1 + N) % N], q1 = out[(i + 1) % N]; return [(q0[0] + 2 * p[0] + q1[0]) / 4, (q0[1] + 2 * p[1] + q1[1]) / 4]; }); // vyhlazení dokola, bez zubů na spoji
-    B.size = 1; syncBlobCtl(); SHAPES.push({ k: 'draw', pts: out }); renderShapes(); selectShape(SHAPES.length - 1); buzz(12); toast('Vlastní tvar přidaný'); };
+    B.size = 1; syncBlobCtl(); SHAPES.push({ k: 'draw', pts: out }); saveShapes(); renderShapes(); selectShape(SHAPES.length - 1); buzz(12); toast('Vlastní tvar přidaný'); };
   el.addEventListener('pointerup', end); el.addEventListener('pointercancel', end);
   el.addEventListener('wheel', e => { e.preventDefault(); B.sc = clamp(B.sc * (1 - e.deltaY * .0015), .5, 4); placeImg(); }, { passive: false });
   $$('.lbl span').forEach(s => { s.addEventListener('keydown', e => { if (e.key === 'Enter') { e.preventDefault(); s.blur(); } }); s.addEventListener('focus', () => toast('Přepiš text a potvrď Enterem')); });

diff --git a/sw.js b/sw.js
@@ -1,5 +1,5 @@
 /* Qamera service worker – appka funguje i offline. Po větší změně zvýšit VERSION, ať se telefonům stáhne nová verze. */
-const VERSION = 'qamera-0.10.0';
+const VERSION = 'qamera-0.11.0';
 const SHELL = ['./', './docs/preview/', './docs/preview/index.html', './manifest.webmanifest', './icons/icon.svg', './icons/icon-192.png', './icons/apple-touch-icon.png', './luts/films.json'];
 
 self.addEventListener('install', e => {
